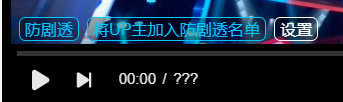
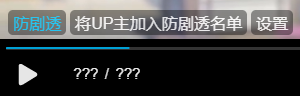
B站防剧透进度条 1.9.3.20210726
* UI：优化脚本控制的外观。
* 脚本：修复在番剧播放页切换视频时，重复生成伪进度条的问题。
* 脚本：优化伪进度条偏移量获取的方式。

diff --git a/script/BilibiliNoSpoilProgressBar/BilibiliNoSpoilProgressBar.user.js b/script/BilibiliNoSpoilProgressBar/BilibiliNoSpoilProgressBar.user.js
@@ -1,6 +1,6 @@
 // ==UserScript==
 // @name            B站防剧透进度条
-// @version         1.9.2.20210725
+// @version         1.9.3.20210726
 // @namespace       laster2800
 // @author          Laster2800
 // @description     看比赛、看番总是被进度条剧透？装上这个脚本再也不用担心这些问题了
@@ -1268,8 +1268,10 @@
           _self.progress.played = await api.wait.waitQuerySelector(selector.progress.played, _self.control)
           _self.progress.preview = await api.wait.waitQuerySelector(selector.progress.preview, _self.control)
 
-          _self.fakePlayed = _self.progress.played.insertAdjacentElement('afterend', _self.progress.played.cloneNode(true))
-          _self.fakePlayed.style.visibility = 'hidden'
+          if (!_self.control.contains(_self.fakePlayed)) {
+            _self.fakePlayed = _self.progress.played.insertAdjacentElement('afterend', _self.progress.played.cloneNode(true))
+            _self.fakePlayed.style.visibility = 'hidden'
+          }
         }
 
         await initCore()
@@ -1315,10 +1317,12 @@
           _self.progress.preview = await api.wait.waitQuerySelector(selector.progress.preview, _self.progress.root)
           _self.shadowProgress = await api.wait.waitQuerySelector(selector.shadowProgress, _self.control)
 
-          _self.fakeTrack = _self.progress.track.insertAdjacentElement('afterend', _self.progress.track.cloneNode(true)) // 必须在 thumb 前，否则 z 轴层次错误
-          _self.fakeTrack.style.visibility = 'hidden'
-          _self.fakeTrack.querySelector(selector.progress.buffer).style.visibility = 'hidden'
-          _self.fakePlayed = _self.fakeTrack.querySelector(selector.progress.played)
+          if (!_self.control.contains(_self.fakeTrack)) {
+            _self.fakeTrack = _self.progress.track.insertAdjacentElement('afterend', _self.progress.track.cloneNode(true)) // 必须在 thumb 前，否则 z 轴层次错误
+            _self.fakeTrack.style.visibility = 'hidden'
+            _self.fakeTrack.querySelector(selector.progress.buffer).style.visibility = 'hidden'
+            _self.fakePlayed = _self.fakeTrack.querySelector(selector.progress.played)
+          }
 
           // 有些播放页面，自动跳转到上次播放进度时，thumb 被会被替换成新的
           // 似乎最多只会变一次，暂时就只处理一次
@@ -1617,6 +1621,7 @@
         if (typeof offset == 'number') {
           if (api.web.urlMatch(gm.regex.page_bangumi)) {
             const handler = () => {
+              _self.progress.root._offset = offset
               _self.progress.root.style.transform = `translateX(${offset}%)`
               if (_self.enabled) {
                 _self.progress.slider.style.background = 'unset'
@@ -1636,6 +1641,7 @@
               if (noPostpone || !gm.config.postponeOffset) {
                 handler()
               } else if (!_self.progress._noSpoil) { // 首次打开
+                _self.progress.root._offset = 0
                 _self.progress.root.style.transform = 'translateX(0)'
                 _self.progress.slider.style.background = 'unset'
                 _self.progress.track.style.transform = 'translateX(0)'
@@ -1654,6 +1660,7 @@
             }
           } else {
             const handler = () => {
+              _self.progress.root._offset = offset
               _self.progress.root.style.transform = `translateX(${offset}%)`
               if (_self.enabled) {
                 _self.fakeTrack.style.transform = `translateX(${-offset}%)`
@@ -1669,6 +1676,7 @@
               if (noPostpone || !gm.config.postponeOffset) {
                 handler()
               } else if (!_self.progress._noSpoil) { // 首次打开
+                _self.progress.root._offset = 0
                 _self.progress.root.style.transform = 'translateX(0)'
                 _self.fakeTrack.style.transform = 'translateX(0)'
               }
@@ -1743,7 +1751,7 @@
       // 若打开稍后再看模式播放页后，在以下条件等待超时之前切换到其他视频，这部分代码也会响应导致重新初始化
       // 不过，这种情况本来就应该重初始化，也就是相当于多处理一次，从结果上来看并不要紧
       api.wait.executeAfterConditionPassed({
-        condition: () => !document.querySelector(`.${gm.id}-scriptControl`),
+        condition: () => !document.body.contains(_self.scriptControl),
         callback: () => _self.initNoSpoil(),
         interval: 250,
         onTimeout: null,
@@ -1815,7 +1823,7 @@
      */
     initScriptControl() {
       const _self = this
-      if (!_self.controlPanel.querySelector(`.${gm.id}-scriptControl`)) {
+      if (!_self.controlPanel.contains(_self.scriptControl)) {
         _self.scriptControl = _self.controlPanel.appendChild(document.createElement('div'))
         if (api.web.urlMatch(gm.regex.page_bangumi)) {
           _self.scriptControl.style.left = '1em'
@@ -1921,14 +1929,7 @@
       const _self = this
       if (!_self.enabled) return
       const playRate = _self.method.getCurrentTime() / _self.method.getDuration()
-      let offset = null
-      const m = _self.progress.root.style.transform.match(/(?<=translateX\()[^)]+(?=\))/)
-      if (m?.length > 0) {
-        offset = m[0]
-      } else {
-        offset = 0
-      }
-      offset = parseFloat(offset)
+      let offset = _self.progress.root._offset ?? 0
       // 若处于播放进度小于左侧预留区的特殊情况，不要进行处理
       // 注意，一旦离开这种特殊状态，就再也不可能进度该特殊状态了，因为这样反而会暴露信息
       if (offset !== 0) {
@@ -1945,6 +1946,7 @@
           reservedZone = true
         }
         if (reservedZone) {
+          _self.progress.root._offset = offset
           _self.progress.root.style.transform = `translateX(${offset}%)`
           if (api.web.urlMatch(gm.regex.page_bangumi)) {
             _self.progress.track.style.transform = `translateX(${-offset}%)`
@@ -1970,7 +1972,7 @@
       GM_addStyle(`
         :root {
           --control-item-selected-color: #00c7ff;
-          --control-item-shadow-color: #00000050;
+          --control-item-shadow-color: #00000080;
           --text-color: black;
           --text-bold-color: #3a3a3a;
           --light-text-color: white;
@@ -1998,15 +2000,20 @@
           margin-bottom: 0.5em;
           font-size: 13px;
           z-index: 10000;
+          display: flex;
         }
 
         .${gm.id}-scriptControl > * {
           cursor: pointer;
-          border: 1px solid;
-          border-radius: 0.4em;
-          padding: 0.1em 0.3em;
-          margin: 0 0.1em;
+          border-radius: 4px;
+          padding: 0.3em;
+          margin: 0 0.12em;
           background-color: var(--control-item-shadow-color);
+          line-height: 1em;
+          opacity: 0.8;
+        }
+        .${gm.id}-scriptControl > *:hover {
+          opacity: 1;
         }
         .${gm.id}-scriptControl > *[enabled] {
           color: var(--control-item-selected-color);

diff --git a/script/BilibiliNoSpoilProgressBar/changelog.md b/script/BilibiliNoSpoilProgressBar/changelog.md
@@ -7,6 +7,7 @@
 1. 脚本：适配B站 2021 年 7 月下旬对番剧播放页的修改，重新支持番剧播放页。
 2. 脚本：移除对 `unsafeWindow` 的依赖，不再需要对网页的完整访问权限。
 3. 脚本：大幅简化页面切换处理流程。
+4. UI：优化脚本控制的外观。
 
 ## V1.8
 
